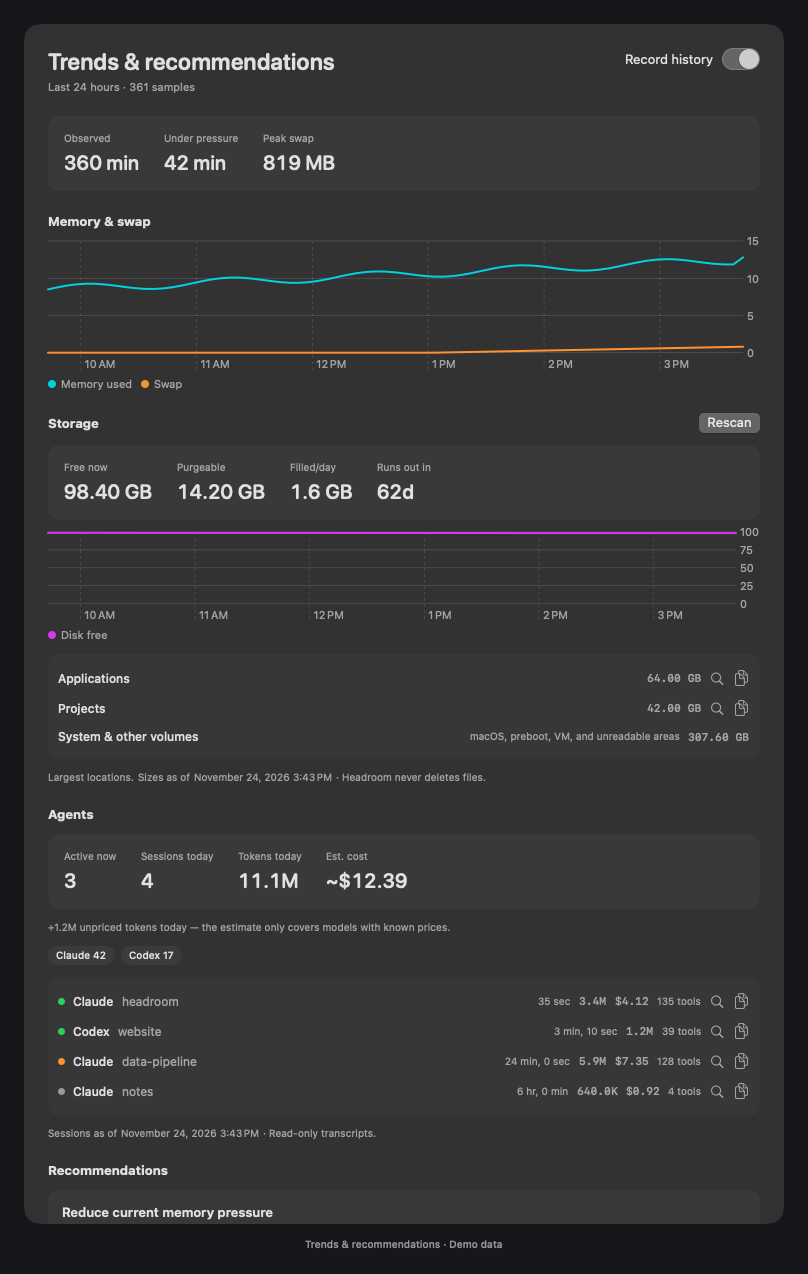
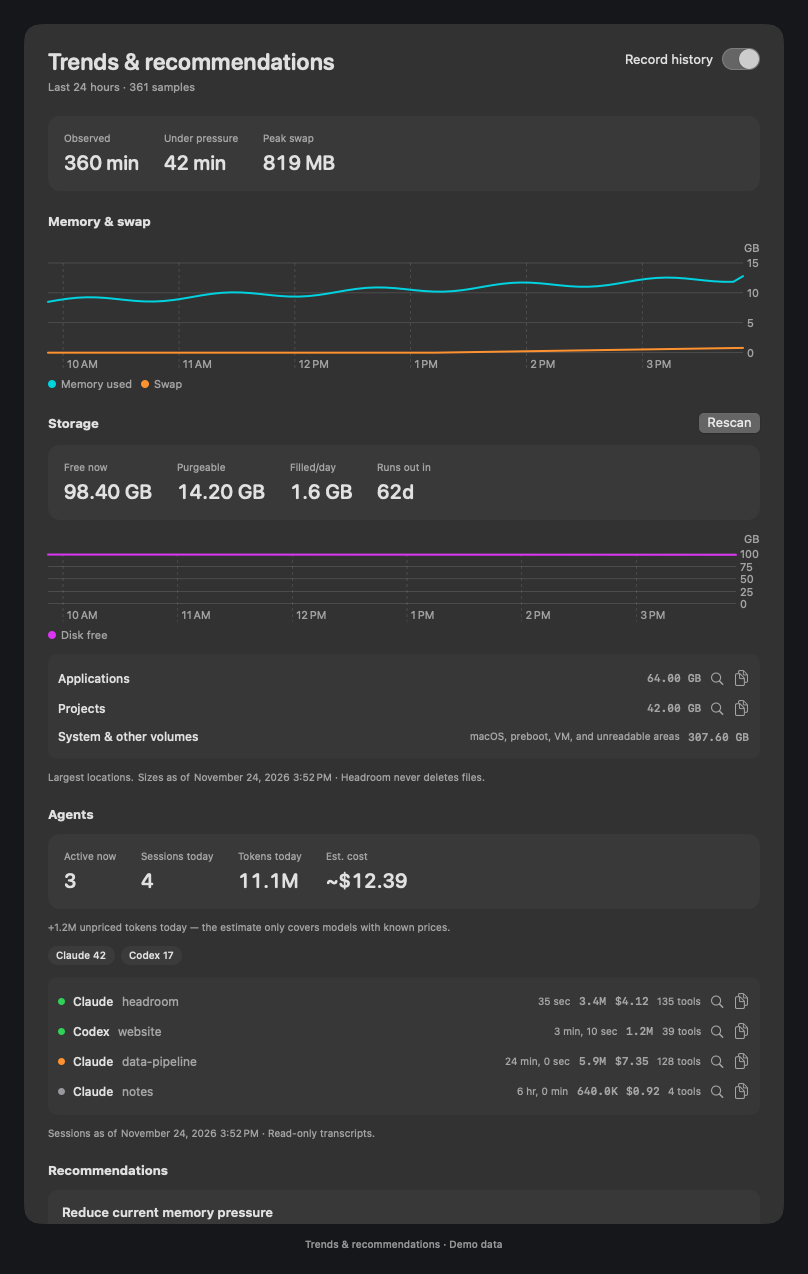
Pick MB, GB, or TB from each value, including rates and chart axes
Disk rates were always "x.x GB/day", sizes under 1 GB read "0.3 GB", and
the Trends charts plotted a 2 TB disk as "1286" GB. Rates and short sizes
now choose their own unit, and each chart picks its axis unit from the
largest value it shows.

diff --git a/Sources/Headroom/HistoryView.swift b/Sources/Headroom/HistoryView.swift
@@ -31,10 +31,12 @@ struct HistoryView: View {
                 VStack(alignment: .leading, spacing: 12) {
                     Text("Memory & swap").font(.headline)
                     if monitor.trends.points.count >= 2 {
+                        let axis = ByteAxis.fitting(maxGB: monitor.trends.points.map { max($0.usedGB, $0.swapGB) }.max() ?? 0)
                         Chart(monitor.trends.points) { point in
-                            LineMark(x: .value("Time", point.date), y: .value("GB", point.usedGB)).foregroundStyle(by: .value("Metric", "Memory used"))
-                            LineMark(x: .value("Time", point.date), y: .value("GB", point.swapGB)).foregroundStyle(by: .value("Metric", "Swap"))
-                        }.chartForegroundStyleScale(["Memory used": Color.teal, "Swap": Color.orange]).frame(height: 150)
+                            LineMark(x: .value("Time", point.date), y: .value(axis.unit, point.usedGB * axis.scale)).foregroundStyle(by: .value("Metric", "Memory used"))
+                            LineMark(x: .value("Time", point.date), y: .value(axis.unit, point.swapGB * axis.scale)).foregroundStyle(by: .value("Metric", "Swap"))
+                        }.chartForegroundStyleScale(["Memory used": Color.teal, "Swap": Color.orange])
+                            .chartYAxisLabel(axis.unit).frame(height: 150)
                     } else {
                         Text("The chart appears as readings accumulate. Leave Headroom running during your normal work.")
                             .font(.subheadline).foregroundStyle(.secondary).frame(maxWidth: .infinity, minHeight: 90)
@@ -56,14 +58,16 @@ struct HistoryView: View {
                         HStack(spacing: 24) {
                             stat("Free now", MemoryFormat.string(free))
                             stat("Purgeable", MemoryFormat.string(monitor.trends.latestDiskPurgeable ?? 0))
-                            stat("Filled/day", monitor.trends.diskRateGBPerDay.map { $0 > 0.1 ? "\(String(format: "%.1f", $0)) GB" : "flat" } ?? "—")
+                            stat("Filled/day", monitor.trends.diskRateGBPerDay.map { $0 > 0.1 ? MemoryFormat.compact(UInt64($0 * 1_073_741_824)) : "flat" } ?? "—")
                             stat("Runs out in", monitor.trends.daysUntilFull.map { "\(Int($0.rounded(.up)))d" } ?? "—")
                         }.frame(maxWidth: .infinity, alignment: .leading).padding(16)
                             .background(RoundedRectangle(cornerRadius: 12).fill(Color.primary.opacity(0.04)))
                         if monitor.trends.diskPoints.count >= 2 {
+                            let axis = ByteAxis.fitting(maxGB: monitor.trends.diskPoints.map(\.freeGB).max() ?? 0)
                             Chart(monitor.trends.diskPoints) { point in
-                                LineMark(x: .value("Time", point.date), y: .value("GB", point.freeGB)).foregroundStyle(by: .value("Metric", "Disk free"))
-                            }.chartForegroundStyleScale(["Disk free": Color.purple]).frame(height: 110)
+                                LineMark(x: .value("Time", point.date), y: .value(axis.unit, point.freeGB * axis.scale)).foregroundStyle(by: .value("Metric", "Disk free"))
+                            }.chartForegroundStyleScale(["Disk free": Color.purple])
+                                .chartYAxisLabel(axis.unit).frame(height: 110)
                         }
                         let used = total > free ? total - free : 0
                         let scanned = monitor.consumers.totalBytes

diff --git a/Sources/HeadroomCore/Memory.swift b/Sources/HeadroomCore/Memory.swift
@@ -135,7 +135,14 @@ public enum MemoryFormat {
     }
     public static func compact(_ bytes: UInt64) -> String {
         let gb = Double(bytes) / 1_073_741_824
-        return terabytes(gb, decimals: 1) ?? String(format: "%.1f GB", gb)
+        if let tb = terabytes(gb, decimals: 1) { return tb }
+        // Below 1 GB as rounded for display, MB reads better than "0.3 GB".
+        if (gb * 10).rounded() / 10 < 1 { return String(format: "%.0f MB", Double(bytes) / 1_048_576) }
+        return String(format: "%.1f GB", gb)
+    }
+    /// A daily change in GB, in whichever unit fits it: "205 MB/day", "1.6 GB/day", "1.20 TB/day".
+    public static func perDay(gb: Double) -> String {
+        compact(UInt64(max(0, gb) * 1_073_741_824)) + "/day"
     }
     /// nil below 1 TB (1024 GB in these binary units), as rounded for display,
     /// so a TB value never reads under "1.00 TB".
@@ -144,5 +151,18 @@ public enum MemoryFormat {
         guard (gb * scale).rounded() / scale >= 1024 else { return nil }
         let tb = gb / 1024
         return (tb * 100).rounded() / 100 >= 10 ? String(format: "%.1f TB", tb) : String(format: "%.2f TB", tb)
+    }
+}
+
+/// Unit for a chart axis, chosen from the largest value it plots, so a 2 TB disk
+/// reads in TB and a small swap series in MB. Values come in GB (binary).
+public struct ByteAxis: Equatable {
+    public let unit: String
+    /// Multiply a GB value by this to plot it in `unit`.
+    public let scale: Double
+    public static func fitting(maxGB: Double) -> ByteAxis {
+        if maxGB >= 1024 { return ByteAxis(unit: "TB", scale: 1.0 / 1024) }
+        if maxGB > 0 && maxGB < 1 { return ByteAxis(unit: "MB", scale: 1024) }
+        return ByteAxis(unit: "GB", scale: 1)
     }
 }

diff --git a/Sources/Headroom/PanelView.swift b/Sources/Headroom/PanelView.swift
@@ -267,7 +267,7 @@ struct PanelView: View {
                      disk.purgeable > 0 ? "Purgeable \(MemoryFormat.string(disk.purgeable)) — macOS can reclaim it when needed" : "No purgeable space reported",
                      "\(Int(disk.usedFraction * 100))% used"]
         if let rate = monitor.trends.diskRateGBPerDay, rate > 0.1 {
-            lines.append("Filling about \(String(format: "%.1f", rate)) GB/day" + (monitor.trends.daysUntilFull.map { ", full in ~\(Int($0)) days" } ?? ""))
+            lines.append("Filling about \(MemoryFormat.perDay(gb: rate))" + (monitor.trends.daysUntilFull.map { ", full in ~\(Int($0)) days" } ?? ""))
         }
         lines.append("Shaded zone: 90% full (low); tick: 95% (critical).")
         return lines
@@ -276,7 +276,7 @@ struct PanelView: View {
     /// Compact disk footnote: fill rate when known, else purgeable.
     private var diskFootnote: String {
         if let rate = monitor.trends.diskRateGBPerDay, rate > 0.1 {
-            return "−\(String(format: "%.1f", rate)) GB/day" + (monitor.disk.purgeable > 0 ? " · \(MemoryFormat.string(monitor.disk.purgeable)) purgeable" : "")
+            return "−\(MemoryFormat.perDay(gb: rate))" + (monitor.disk.purgeable > 0 ? " · \(MemoryFormat.string(monitor.disk.purgeable)) purgeable" : "")
         }
         return monitor.disk.purgeable > 0 ? "\(MemoryFormat.string(monitor.disk.purgeable)) purgeable" : " "
     }

diff --git a/Tests/HeadroomCoreChecks/FormatChecks.swift b/Tests/HeadroomCoreChecks/FormatChecks.swift
@@ -32,3 +32,24 @@ private func bytes(gb: Double) -> UInt64 { UInt64((gb * gib).rounded()) }
     #expect(MemoryFormat.string(bytes(gb: 1023.97)) == "1023.97 GB")
     #expect(MemoryFormat.string(bytes(gb: 10 * 1024 - 1)) == "10.0 TB")
 }
+
+@Test func compactFormatUsesMegabytesBelowOneGigabyte() {
+    #expect(MemoryFormat.compact(bytes(gb: 0.3)) == "307 MB")
+    #expect(MemoryFormat.compact(bytes(gb: 0.94)) == "963 MB")
+    #expect(MemoryFormat.compact(bytes(gb: 0.96)) == "1.0 GB")
+    #expect(MemoryFormat.compact(0) == "0 MB")
+}
+
+@Test func dailyRatesPickTheirOwnUnit() {
+    #expect(MemoryFormat.perDay(gb: 0.2) == "205 MB/day")
+    #expect(MemoryFormat.perDay(gb: 1.6) == "1.6 GB/day")
+    #expect(MemoryFormat.perDay(gb: 1228.8) == "1.20 TB/day")
+}
+
+@Test func chartAxisUnitFollowsTheLargestValue() {
+    #expect(ByteAxis.fitting(maxGB: 1286.4) == ByteAxis(unit: "TB", scale: 1.0 / 1024))
+    #expect(ByteAxis.fitting(maxGB: 98.4).unit == "GB")
+    #expect(ByteAxis.fitting(maxGB: 0.4).unit == "MB")
+    #expect(ByteAxis.fitting(maxGB: 0).unit == "GB")
+}
+

diff --git a/Sources/HeadroomCore/Disk.swift b/Sources/HeadroomCore/Disk.swift
@@ -191,7 +191,7 @@ public enum DiskAdvice {
         }
         if let days = summary.daysUntilFull, days > 0, days < 14, let rate = summary.diskRateGBPerDay, rate > 0.1 {
             result.append(.init(title: "Disk is filling quickly",
-                                detail: "Free space shrank by about \(String(format: "%.1f", rate)) GB/day over the recorded window; at that pace it runs out in roughly \(Int(days.rounded(.up))) day(s). Check the largest consumers below."))
+                                detail: "Free space shrank by about \(MemoryFormat.perDay(gb: rate)) over the recorded window; at that pace it runs out in roughly \(Int(days.rounded(.up))) day(s). Check the largest consumers below."))
         }
         let grown = summary.consumers.items.compactMap { item -> (DiskConsumer, Int64)? in
             guard let delta = item.delta, delta >= 1_073_741_824, Double(delta) >= Double(item.previousBytes ?? 1) * 0.10 else { return nil }

diff --git a/Sources/HeadroomCore/History.swift b/Sources/HeadroomCore/History.swift
@@ -601,7 +601,7 @@ public final class HistoryStore {
             let purgeText = (summary.latestDiskPurgeable ?? 0) > 0 ? " · \(MemoryFormat.string(summary.latestDiskPurgeable!)) purgeable" : ""
             lines.append("- \(MemoryFormat.string(free)) free of \(MemoryFormat.string(total)) · \(Int(Double(used) / Double(total) * 100))% full\(purgeText).")
             if let rate = summary.diskRateGBPerDay, rate > 0.1 {
-                var trend = "- Free space shrank by about \(String(format: "%.1f", rate)) GB/day across the recorded window."
+                var trend = "- Free space shrank by about \(MemoryFormat.perDay(gb: rate)) across the recorded window."
                 if let days = summary.daysUntilFull { trend += " At that pace it runs out in about \(Int(days.rounded(.up))) day(s)." }
                 lines.append(trend)
             } else if summary.diskRateGBPerDay != nil {

diff --git a/CHANGELOG.md b/CHANGELOG.md
@@ -21,6 +21,9 @@ download.
 - Codex sessions stored in dated folders are now picked up by Agents.
 
 ### Changed
+- Sizes pick their unit from their size everywhere: under 1 GB in MB, 1 TB or
+  more in TB, daily disk rates included ("205 MB/day"), and the Trends charts
+  label their axis in the unit that fits the largest value.
 - Disks of 1 TB or more show sizes in TB (for example "1.26 TB free of
   2.00 TB") in the panel, menu bar, Trends, and log.md.
 - Limits is opt-in on new installs. While it's off, Headroom reads no
